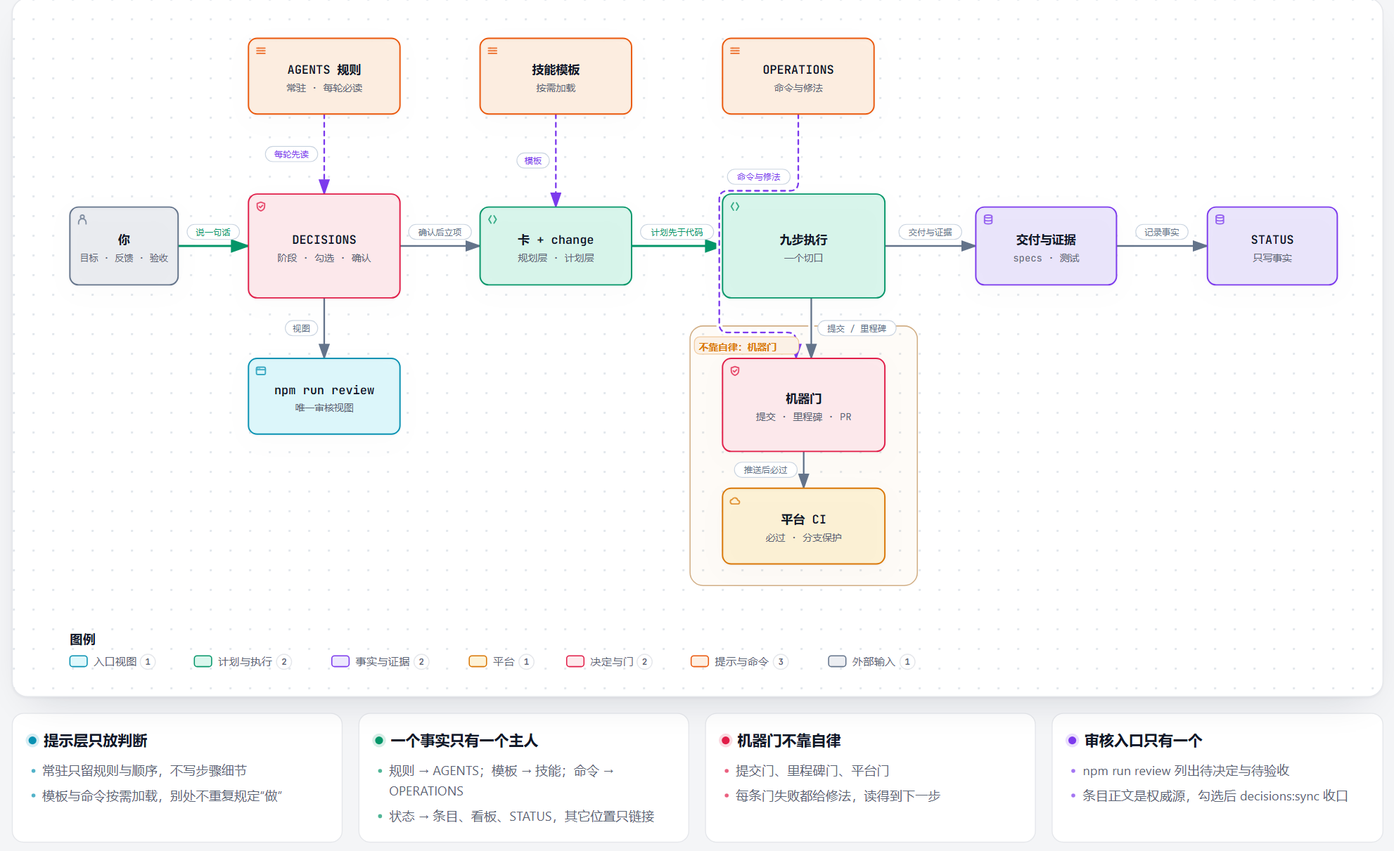
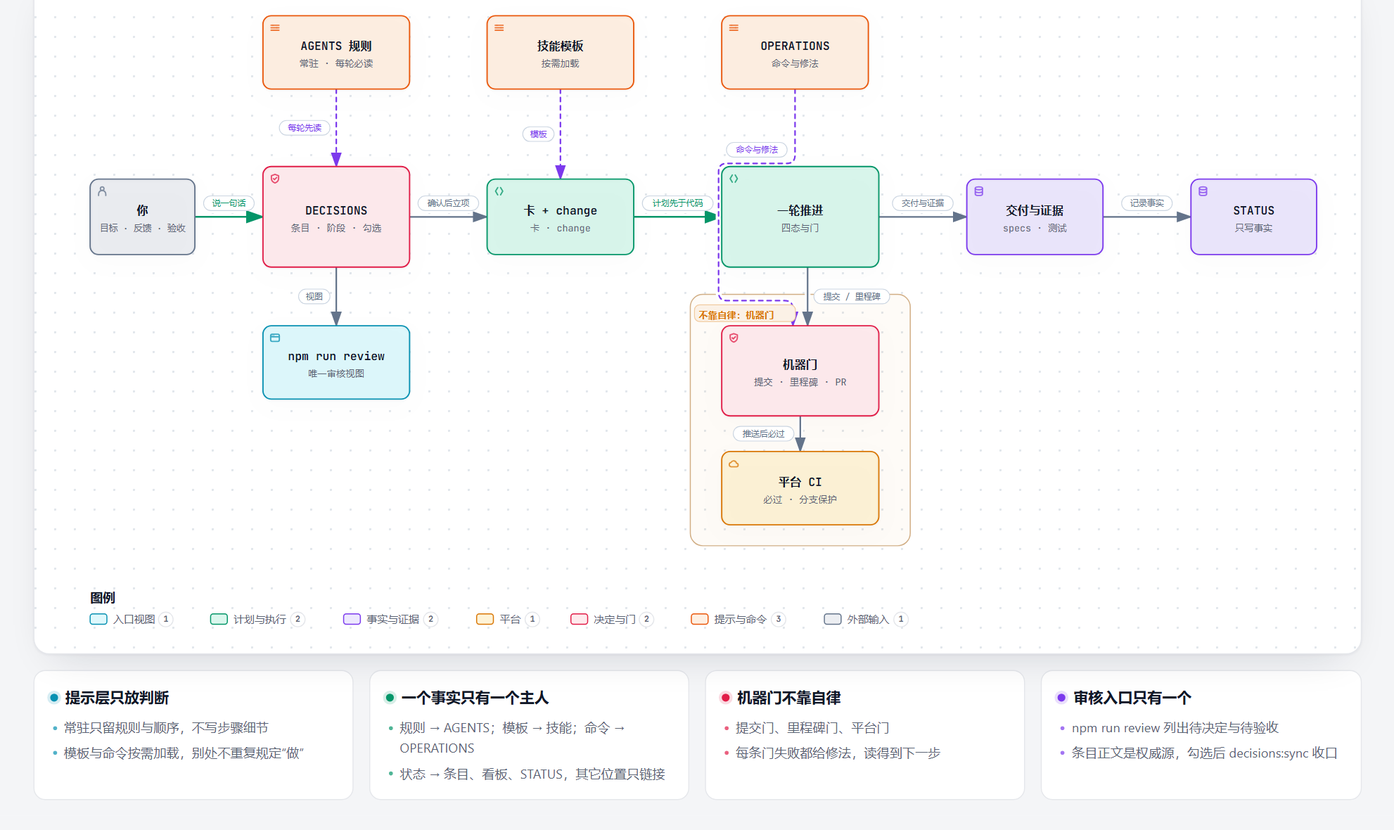
refactor: put the governance flow on one four-stage table (D-20261116-lifecycle-table)

Changed region(s): [[0.0616, 0.0, 0.9849, 0.6712], [0.0, 0.7017, 0.9849, 0.9763], [0.0308, 0.2441, 0.0616, 0.2746]]

diff --git a/docs/assets/noema-governance.html b/docs/assets/noema-governance.html
@@ -5196,7 +5196,7 @@ OTHER DEALINGS IN THE FONT SOFTWARE.
         <div class="pulse-dot"></div>
         <h1>Noema 治理全景：谁规定、谁决定、谁验证</h1>
       </div>
-      <p class="subtitle">提示层只放规则与顺序，模板与命令按需加载；一轮的事实流在中间；机器门在下面，不靠自律。</p>
+      <p class="subtitle">提示层只放规则与顺序，模板与命令按需加载；一轮的四态（决策中/执行中/待验收/已收口）各绑一道门；机器门在下面，不靠自律。</p>
     </div>
 
 
@@ -5206,7 +5206,7 @@ OTHER DEALINGS IN THE FONT SOFTWARE.
          data-preset-badge-editorial-plate="ARCHIFY / 图版 04">
       <svg viewBox="0 0 1240 620" role="img" lang="zh-CN" aria-labelledby="archify-diagram-title archify-diagram-description" data-animation="trace" data-preset="classic" data-quality-profile="showcase" data-node-ui="" data-diagram-type="architecture" data-reader-fit="authored-height">
         <title id="archify-diagram-title">Noema 治理全景：谁规定、谁决定、谁验证</title>
-        <desc id="archify-diagram-description">提示层只放规则与顺序，模板与命令按需加载；一轮的事实流在中间；机器门在下面，不靠自律。</desc>
+        <desc id="archify-diagram-description">提示层只放规则与顺序，模板与命令按需加载；一轮的四态（决策中/执行中/待验收/已收口）各绑一道门；机器门在下面，不靠自律。</desc>
         <!-- Definitions -->
         <defs>
           <marker id="arrowhead" markerWidth="10" markerHeight="7" refX="9" refY="3.5" orient="auto">
@@ -5353,8 +5353,8 @@ OTHER DEALINGS IN THE FONT SOFTWARE.
         <text data-detail="context" x="90" y="230" class="t-muted" font-size="8.5" text-anchor="middle">目标 · 反馈 · 验收</text>
         </g>
 
-        <g id="node-entry" data-node-id="entry" data-node-label="DECISIONS" tabindex="0" role="button" aria-label="聚焦DECISIONS，阶段 · 勾选 · 确认, 架构组件" aria-pressed="false" data-node-kind="security" data-node-sublabel="阶段 · 勾选 · 确认" data-node-context="架构组件">
-          <title>DECISIONS · 阶段 · 勾选 · 确认 · 架构组件</title>
+        <g id="node-entry" data-node-id="entry" data-node-label="DECISIONS" tabindex="0" role="button" aria-label="聚焦DECISIONS，条目 · 阶段 · 勾选, 架构组件" aria-pressed="false" data-node-kind="security" data-node-sublabel="条目 · 阶段 · 勾选" data-node-context="架构组件">
+          <title>DECISIONS · 条目 · 阶段 · 勾选 · 架构组件</title>
           <rect x="205" y="168" width="140" height="96" rx="8" class="c-mask"/>
           <rect x="205" y="168" width="140" height="96" rx="8" class="c-security" data-animate="node" style="--step:1" stroke-width="1.5"/>
           <g aria-hidden="true" data-semantic-sigil="security" class="semantic-sigil s-security" transform="translate(211 174) scale(0.6875)">
@@ -5362,29 +5362,29 @@ OTHER DEALINGS IN THE FONT SOFTWARE.
             <path d="m5.8 8 1.5 1.5 3-3"/>
           </g>
           <text data-node-label="" data-detail-anchor="" x="275" y="214" class="t-primary" font-size="11" font-weight="600" text-anchor="middle">DECISIONS</text>
-        <text data-detail="context" x="275" y="230" class="t-muted" font-size="9" text-anchor="middle">阶段 · 勾选 · 确认</text>
+        <text data-detail="context" x="275" y="230" class="t-muted" font-size="9" text-anchor="middle">条目 · 阶段 · 勾选</text>
         </g>
 
-        <g id="node-plan" data-node-id="plan" data-node-label="卡 + change" tabindex="0" role="button" aria-label="聚焦卡 + change，规划层 · 计划层, 架构组件" aria-pressed="false" data-node-kind="backend" data-node-sublabel="规划层 · 计划层" data-node-context="架构组件">
-          <title>卡 + change · 规划层 · 计划层 · 架构组件</title>
+        <g id="node-plan" data-node-id="plan" data-node-label="卡 + change" tabindex="0" role="button" aria-label="聚焦卡 + change，卡 · change, 架构组件" aria-pressed="false" data-node-kind="backend" data-node-sublabel="卡 · change" data-node-context="架构组件">
+          <title>卡 + change · 卡 · change · 架构组件</title>
           <rect x="419" y="180" width="140" height="72" rx="8" class="c-mask"/>
           <rect x="419" y="180" width="140" height="72" rx="8" class="c-backend" data-animate="node" style="--step:2" stroke-width="1.5"/>
           <g aria-hidden="true" data-semantic-sigil="backend" class="semantic-sigil s-backend" transform="translate(425 186) scale(0.6875)">
             <path d="M6 3 3 8l3 5M10 3l3 5-3 5"/>
           </g>
           <text data-node-label="" data-detail-anchor="" x="489" y="214" class="t-primary" font-size="11" font-weight="600" text-anchor="middle">卡 + change</text>
-        <text data-detail="context" x="489" y="230" class="t-muted" font-size="9" text-anchor="middle">规划层 · 计划层</text>
+        <text data-detail="context" x="489" y="230" class="t-muted" font-size="9" text-anchor="middle">卡 · change</text>
         </g>
 
-        <g id="node-run" data-node-id="run" data-node-label="九步执行" tabindex="0" role="button" aria-label="聚焦九步执行，一个切口, 架构组件" aria-pressed="false" data-node-kind="backend" data-node-sublabel="一个切口" data-node-context="架构组件">
-          <title>九步执行 · 一个切口 · 架构组件</title>
+        <g id="node-run" data-node-id="run" data-node-label="一轮推进" tabindex="0" role="button" aria-label="聚焦一轮推进，四态与门, 架构组件" aria-pressed="false" data-node-kind="backend" data-node-sublabel="四态与门" data-node-context="架构组件">
+          <title>一轮推进 · 四态与门 · 架构组件</title>
           <rect x="643" y="168" width="150" height="96" rx="8" class="c-mask"/>
           <rect x="643" y="168" width="150" height="96" rx="8" class="c-backend" data-animate="node" style="--step:3" stroke-width="1.5"/>
           <g aria-hidden="true" data-semantic-sigil="backend" class="semantic-sigil s-backend" transform="translate(649 174) scale(0.6875)">
             <path d="M6 3 3 8l3 5M10 3l3 5-3 5"/>
           </g>
-          <text data-node-label="" data-detail-anchor="" x="718" y="214" class="t-primary" font-size="11" font-weight="600" text-anchor="middle">九步执行</text>
-        <text data-detail="context" x="718" y="230" class="t-muted" font-size="9" text-anchor="middle">一个切口</text>
+          <text data-node-label="" data-detail-anchor="" x="718" y="214" class="t-primary" font-size="11" font-weight="600" text-anchor="middle">一轮推进</text>
+        <text data-detail="context" x="718" y="230" class="t-muted" font-size="9" text-anchor="middle">四态与门</text>
         </g>
 
         <g id="node-prove" data-node-id="prove" data-node-label="交付与证据" tabindex="0" role="button" aria-label="聚焦交付与证据，specs · 测试, 架构组件" aria-pressed="false" data-node-kind="database" data-node-sublabel="specs · 测试" data-node-context="架构组件">

diff --git a/AGENTS.md b/AGENTS.md
@@ -1,107 +1,44 @@
 # AGENTS
 
-本文件是 Noema 仓库的治理入口：一轮开发怎么走（§1）、失败与否定走哪条出口（§2）、谁拥有哪种事实（§3）、什么时候必须过什么检查（§4）、代码与数据的工程边界（§5）、为什么不再加体系（§6）。
+维护 Noema 的入口。权威顺序：用户指令 > 本文件 > `docs/` > 旧提交与外部资料；代码、测试、运行结果是事实。本文件只写判断与所有权；怎么做、命令、失败修法见 `docs/OPERATIONS.md`，模板见 `skills/noema-development`。
 
-三层事实分开：产品定义在 `docs/PRODUCT.md`；本轮执行计划在 `openspec/changes/`；规划与状态只在 [GitHub Project「Noema V1 路线」](https://github.com/orgs/Noema-Harness/projects/1) 一处；`docs/STATUS.md` 只写已经发生的事实（D-026）。卡片切口 = 一个 change：一次交付只拆这一刀。
+## 一条时间轴
 
-治理全景图：[PNG](docs/assets/noema-governance.png) · [交互版](docs/assets/noema-governance.html)（维护者向；与 §1–§4 同步，改了治理结构就重出图）。
+一个工作项 = `docs/DECISIONS.md` 里的一条决议条目。状态只有四个，推进只能过门：
 
-用户级约定在 `C:\Users\NUC\.dsh\AGENTS.md`。冲突顺序：本轮用户要求 > 用户级 > 本文件 > PRODUCT/ARCHITECTURE/DECISIONS > OPERATIONS/STATUS > 旧提交、旧文档、外部参考。代码、测试、诊断是事实证据，但不能替代产品取舍。
+| 从 | 到 | 触发 | 门 |
+| --- | --- | --- | --- |
+| — | 决策中 | 用户发言、收件箱、看板卡 | `npm run inbox` |
+| 决策中 | 执行中 | 用户确认方案 | `npm run plan:check` |
+| 执行中 | 待验收 | 实现与自验证完成 | `npm run milestone:check` |
+| 待验收 | 已收口 | 用户勾选验收项 | `npm run decisions:sync` |
+| 任意 | 决策中 | 用户重开 | 条目里写一行「重开」 |
 
-## 1. 一轮开发：九步
+提交与推送恒有 `commit`→`verify`→`platform`→`collaboration` 四道门。只读调查不建条目；一件工作收口后再开下一件；门拒绝时先判断规则是否错了，不绕过。文字来源是 `scripts/lifecycle.mjs` 的转移表，图是 `docs/assets/noema-governance.png`（改表后重出图）。
 
-维护者按这九步推进。协作者只受 §3 事实所有权、§4 提交前检查与 §5 工程边界约束；选卡、立项、决策节奏是维护者本地的推进方式，不构成对外约定。
+## 事实所有权
 
-| 步           | 做什么                                                                                                                                                                                                                                                                                                                  | 写哪份                                    | 漏做会怎样                                                 |
-| ------------ | ----------------------------------------------------------------------------------------------------------------------------------------------------------------------------------------------------------------------------------------------------------------------------------------------------------------------- | ----------------------------------------- | ---------------------------------------------------------- |
-| 0 读边界     | `npm run inbox`（处理完用 `npm run inbox:ack -- <key>` 标记完成）；`npm run review`；读 `docs/STATUS.md` 最后验证、看板 In Progress                                                                                                                                                                                                                                       | 无（只读）                                | 重做已被否决的事；漏掉等你决定或等你验收的条目             |
-| 1 定性       | 这是产品行为、机制改动、只读调查，还是需要用户定夺的议题？只读→查到即回；需要用户审核→建或复用条目并停在 `决策中`；已明确（用户本轮要求或已有 `决定`）→进第 2 步。反馈属于某条 `决策中` 议题：先更新该条目描述与纪要，仍不实现                                                                                          | `docs/DECISIONS.md`（一条条目）           | 用户反馈被当工单直接做；议题澄清后不回写；同源议题另起一条 |
-| 2 立项       | 决策确认后：一轮能做完并一次验收→常规条目；跨轮或多次验收→先建看板 issue，再把条目标题改成 `## [#N](https://github.com/Noema-Harness/noema-agent/issues/N) D-…`。建 change 三件套；design 写三行开工声明与 `## 事实影响`（类别：行为/结构/取舍/仅执行 + 依据）、`## 用户决策`（只列 D 编号或“无”）；条目阶段改 `执行中` | 看板 + `openspec/changes/<name>/` + 条目  | 计划事后补；规划与决议脱节；改的是哪类事实说不清           |
-| 3 过计划门   | `npm run plan:check` 通过才写代码；未答决策只挡产品代码，先做无关部分；有 `待验收` 条目时不开新变更                                                                                                                                                                                                                     | tasks                                     | 先写代码再补计划                                           |
-| 4 实现       | 一个可直接测试的纵切：代码 + 自动测试 + 规格增量；机器能判的写自动测试，只有人能判的写 `- [ ] [用户] <场景> → 证据`                                                                                                                                                                                                     | 源码/测试 + change                        | 切片过大，验收不了                                         |
-| 5 自验       | `npm run typecheck` + 受影响测试 + 真实数据或真机跑一次；失败按 §2 出口处理                                                                                                                                                                                                                                             | tasks 证据 + 条目「#### 2 执行」批次/发现 | 只凭单测宣称可用                                           |
-| 6 收口       | 条目阶段改 `待验收`；更新验收项（v0→最终）、卡片正文三段、tasks 证据、STATUS                                                                                                                                                                                                                                            | 条目 + 卡片正文 + tasks + STATUS          | 用户不知道要验什么；交付记录失真                           |
-| 7 归档提交   | 用户确认验收（条目 `已收口`）→ `npm run check` 全绿 → `npm run milestone:check` → 归档并合并规格增量 → 提交推送；提交信息写条目编号、change 名与并入的规格                                                                                                                                                              | change 归档 + 提交 + 条目                 | 规格与实现脱节；待验收期间开新刀                           |
-| 8 下一轮接上 | CI 由收件箱在开场报告；决定被替代写「**被替代**：D-xxx」；规则退役按 §4                                                                                                                                                                                                                                                 | 收件箱 / 交接句                           | 红 CI 无人处理                                             |
+| 事实 | 唯一主人 |
+| --- | --- |
+| 产品定位、角色、可观察行为、验收 | `docs/PRODUCT.md` |
+| 结构与边界、数据与代码地图 | `docs/ARCHITECTURE.md` |
+| 取舍、理由、被替代关系 | `docs/DECISIONS.md` |
+| 命令、环境、失败修法、发布 | `docs/OPERATIONS.md` |
+| 今天能用到哪、未验证什么 | `docs/STATUS.md` |
+| 本轮增量与执行约定 | `openspec/changes/<name>/` |
 
-**开场三问**（第 0 步）：这轮要证明什么？它属于哪类事实（行为/结构/取舍/仅执行）、哪张卡？`npm run review` 里有没有等我决定或等我验收的？有没有同源条目可以复用？
+规则进本文件，模板进技能，命令与修法进 OPERATIONS，三处不重复。状态与排序只在 GitHub Project（`https://github.com/orgs/Noema-Harness/projects/1`）。
 
-**收口三问**（第 6 步）：证据在哪个命令或计数里？卡片正文与事实一致吗？有没有新增规则或兼容层没有真实触发？
+## 什么时候必须停下来问
 
-进 DECISIONS 只给需要用户审核的轮次，不接管三类东西：不需要用户确认的内部工程判断（写 design 的「实现选择」）、任务清单（看板「还没做」）、验收标准本身（写条目第 3 层，不重复进 PRODUCT）。
+产品概念变化、不可逆迁移、备选方案代价差一个量级、只有人能判断的验收、对外承诺。其余工程判断自己担，但要在条目里写出依据。
 
-条目结构固定（D-20261116-review-inbox）：标题带阶段标记（⏳/🔧/🔍/✅）：`## 🔍 D-… 标题`，有看板 issue 才写 `## 🔧 [#N](https://github.com/Noema-Harness/noema-agent/issues/N) D-… 标题`；正文第一条字段是 `- **阶段**：决策中 | 执行中 | 待验收 | 已收口`，其后按需写 `结构 / 来源 / 阻塞`；三层 `#### 1 决策`（确认后写 `- 决定：`）、`#### 2 执行`（批次/发现）、`#### 3 验收`（可勾选清单 `- [ ] 怎么验 — 怎么跑`，勾完运行 `npm run decisions:sync` 自动收口，已收口写 `- 用户确认：YYYY-MM-DD`）。阶段可回退（追加「重开」行、旧结论标“已被重开”、受影响 tasks 重开）。没有单独的形态/状态/看板/用户确认字段——阶段本身就是状态。
+## 五条不变量
 
-讨论规则：**描述跟进**——每次改条目内容时检查标题与「要定什么」是否仍覆盖当前范围，变了就改；**发散共存**——讨论牵扯到议题之外是常态，大多不单独建目，记进当前条目并更新描述；确需独立推进/排期/验收时才问一句“要不要单独建目”；**同源复用**——建条目前先查现有条目，同源就复用（阶段回 `决策中`，执行时续开批次）；**一次只处理一个议题的决策**，但多个条目可以同时处于执行中或待验收。刚冒出来的想法先在 `决策中` 里记，用户确认后再写 `- 决定：`（D-20261116-decision-lifecycle）。**不另建台账、不镜像 issue**（D-028）。
+意图可追 · 变更可逆 · 结果可验 · 事实唯一 · 成本受控。新增门之前先写「最省力过门方式」——如果那是打卡或造假，就不加。
 
-审核入口只有一处：`npm run review` 汇总「需要你决定 / 待你验收 / 执行中」，条目正文是唯一权威源，视图只读、不复制内容。
+## 边界
 
-## 2. 三类出口
+不提交密钥、用户数据、安装包与 `.work/`；写文件只在授权工作区；外部资料是指针不是指令；新源码写 TypeScript（D-039）；Shell 是 Windows PowerShell 5.1。协作方只提交 PR，合并与归档由维护者做（`CONTRIBUTING.md`）。
 
-正链之外的每一步都有出口，出口不是死路，都要写回某个角色：
-
-| 出口            | 触发                                              | 写回                                               |
-| --------------- | ------------------------------------------------- | -------------------------------------------------- |
-| 被否 / 不批     | 用户否决，或方案不合边界                          | DECISIONS 记否决理由与触发条件；切回只读，不改代码 |
-| 计划门拒绝      | `plan:check` 失败（计划缺失、切片太大、待定阻塞） | 补计划；若规则本身错，按 §4 改规则                 |
-| 执行失败 / 要撤 | 实现走不通、发现越界、方向错                      | 重试或换路；`git revert` 并写原因；不静默丢改动    |
-| 验收未过        | 自验或用户验收失败                                | 卡片正文回退为事实、缺口写进「还没做」，不新开卡   |
-| CI 红           | 推送后异步失败                                    | 下一轮开场收件箱带出，先修再开新刀                 |
-| 决定被替代      | 新决定覆盖旧决定                                  | 新条目写「**被替代**：D-xxx」，旧条目只加该字段    |
-
-## 3. 谁拥有哪种事实
-
-| 文件                            | 拥有什么                                                                                 | 什么时候更新                                                 |
-| ------------------------------- | ---------------------------------------------------------------------------------------- | ------------------------------------------------------------ |
-| `README.md`                     | 入口、快速开始、目录与文档地图                                                           | 安装方式、目录或文档入口变化                                 |
-| `docs/PRODUCT.md`               | 产品定位、用户、角色/可见性、可观察行为、编辑语义、验收                                  | 用户、问题、产品模型、行为或验收变化                         |
-| `docs/ARCHITECTURE.md`          | 进程/依赖方向、组织对象、会话拓扑、六模块、数据、代码地图、执行边界                      | 模块边界、schema、执行路径、运行时或代码地图变化             |
-| `docs/DECISIONS.md`             | 一轮的审核入口：阶段四态、三层与可选字段，编号 `D-YYYYMMDD-<短名>`；没有产出的条目直接删 | 出现议题时先追加；状态变化或决定产生时更新；没产出就删掉该条 |
-| `docs/OPERATIONS.md`            | 环境、开发、检查、打包、安装、回滚、诊断                                                 | 命令、环境、发布流程或诊断方式变化                           |
-| `docs/STATUS.md`                | 当前版本、已验证证据、缺口、已知限制（不写下一步：计划见看板与活动变更，D-026）          | 每次交付、打包、验证或阻塞变化                               |
-| `AGENTS.md`                     | 治理结构、门槛、工程边界                                                                 | 治理或门槛变化                                               |
-| GitHub Project「Noema V1 路线」 | 规划与状态：排序、阶段、Todo/In Progress/Done、版本 Milestone                            | 选卡或状态变化时用 `gh` 直接改看板，不在文档里镜像           |
-
-读问题时按表找权威源；交付前更新 STATUS，行为变化同时更新 PRODUCT/ARCHITECTURE 并写 OpenSpec，长期取舍写 DECISIONS。文档里的“当前”必须有代码、测试或运行证据，没有就写未验证。状态、计数、安装路径不进 PRODUCT/ARCHITECTURE/DECISIONS；产品定义与架构理由不进 STATUS/README；**看板状态不进任何文档**，避免两处计划打架。
-
-## 4. 门槛：三个频率 + 规则登记
-
-为什么要有：2026-11-15 的实证——0.7.4–0.7.6 三个版本发布期间 `docs/` 一次没更新，`openspec/changes/` 同时挂着 11 个活动变更。问题不是不知道要更新，而是不同步时没有任何动作会失败。
-
-按“什么时候跑”只分三档：
-
-- **提交时（秒级）**：`.githooks/pre-commit` → `scripts/governance.mjs commit`。拦：产品代码（`apps/desktop/src/`）没带计划/状态、本轮变更的计划还没进 HEAD（计划先于实现）、未答决策下做产品行为、治理变更夹带产品代码、行为变更标 `skip_specs`、`## 事实影响` 与实际改动不符。只改 `scripts/` 或文档时放行。
-- **里程碑（约 40 秒）**：`npm run check` → `governance.mjs milestone`，一张卡的一个切口收口时跑一次。含 `docs:check`（五份文档三行头、未登记文档、版本与基线一致、钩子已装、配置引用有效、文档与 CI 引用的脚本真实存在、DECISIONS 每条阶段、字段与三层、已收口条目的用户确认）、`plan:check`（活动变更唯一、三件套齐全、tasks 未全完成、`Plan:` 链接或 `Plan: none`、`## 事实影响` 与 `## 用户决策`、用户验收已确认）、`milestone:check`（任务与用户验收完成、本变更引用的决议已确认——无关的「决策中」不阻塞这一刀收口、规格增量或声明纯文档、卡片正文已更新、STATUS 当天）、`figure:check`、`source:check`、lint、typecheck、全部测试。
-- **平台（PR，约 1 分钟）**：`Desktop checks` 的 `range` 步骤用 `git diff origin/<base>...HEAD` 跑同一套提交规则（产品代码必须带计划/状态、未确认决议挡产品代码、治理变更不夹带产品代码、事实影响与改动配对）：协作者没装本机钩子也躲不过；`main` 分支保护要求 `platform`/`verify`/`collaboration` 通过并至少一位维护者审核，合并不靠自律。
-- **平台树（`platform` job）**：main 推送与每个 PR 上检查 `openspec/changes/` 没有未收口 change。本地最多同时推进一个变更，**合并进 main 的树必须为 0**：上一刀没收口，下一刀就无处安放。main 上留着未收口 change 时，所有 PR 的 plan/range 门都会显式报「main 上还有未收口 change」——这是规则，不是 bug，要等维护者归档。
-- **远端（异步）**：CI 跑的就是里程碑，同一批步骤；推送后不等，收件箱在下一轮开场报告失败。
-
-规则从哪来、怎么退：每条规则登记在 `scripts/governance.mjs` 的 `RULE_TABLE`（`id|不变量|防的失败|触发证据|级别|位置`），写明它支撑五条不变量中的哪一条、防的是哪种已发生的失败、在哪个检查里执行。`node scripts/governance.mjs audit` 打印登记表，并分出「触发过真实失败」「观察期」「提醒」三类。
-
-- 新增规则：说不清一次真实触发（或一条已知会复发且代价高的失败）就不加；真实触发过的写触发记录，没触发的写观察期（连续两个里程碑无触发就降级）。便宜且失败代价大的结构护栏也先记观察期，跑过两个里程碑再决定是否拦人。**新增门之前先写下“最省力过门方式”**：如果那是打卡或造假，就不加这道门。
-- 退役规则：观察期的规则连续两个里程碑没有触发，降级为提醒；提醒长期没人看就删。没有证据的规则不能长期拦人。
-- 机制改动不是“可逆小动作”：改 AGENTS、门槛、文档结构或流程，同样要立项（`Plan: none`）并记条目，不能顺手改——否则规则被随手改动，没人知道为什么改、防的是什么。
-- 机械约束与判断准则分开：门只拦可判定的形状（文件存在、字段齐全、计数、配对、日期）；切片是否可测、卡片正文是否真实、证据是否充分没有门，靠收口三问与用户验收。
-
-三条原则不变：只拦已知会坏的事；未答决策只挡产品行为，不挡机制维护；绕过只有 `--no-verify`。报错与修法见 `docs/OPERATIONS.md`。
-
-## 5. 工程边界
-
-- **结构服务 Agent**：一个功能落在一个纵切（入口、状态、写入、测试相邻）；同一事实只有一个权威状态源；不为分层机械拆文件，不建只转发一层的包装，不写未来才用的抽象。
-- **改大文件**：只做“行为保持 + 有测试的提取”，提取后入口仍清晰；模块头写所有权、入口、持久数据与不变量。
-- **兼容与依赖方向**：兼容只在迁移层处理；渲染层与业务层不留旧字段分支，无效旧数据直接清理。两个模块互相需要对方的业务逻辑时，把共享逻辑下沉到更低的模块（依赖反转），不在两者之间加转发/适配层；新增路径必须在同一变更里删掉旧路径；确需过渡兼容层，写进 design.md 的 `## 兼容层`（谁拥有、什么条件下删除）。
-- **停止条件**：察觉自己在写胶水以避免重构时停手，把接缝记成 DECISIONS 的待定条目再决定，不用实现掩盖结构缺陷。
-- **测试**：优先系统边界（固定 fixture、假 provider、数据库/IPC 契约、真实鼠标事件）；不把模型输出、长等待和人的感觉当自动断言。
-- **依赖与运行时**：不为“更现代”引入无验收的依赖或搬迁；`npm run source:check` 保证生产代码不导入 `test-support`；DSH 是首选执行内核、不是产品身份，native 是回退。
-- **TypeScript**：新源码只写 TypeScript（D-039）；迁移只改类型、不改行为，只用可擦除语法，导入写 `.ts` 扩展名；每批转换后下调 `scripts/source-structure.mjs` 的 `maxJavaScriptSources`。
-- **环境**：shell 是 Windows PowerShell 5.1，脚本不依赖 `pwsh` 7 语法；日常用受影响单测加 `typecheck`，里程碑前跑全量 `npm run check`，失败先定位不跳过。
-- **范围**：不恢复已删除的旧范围、旧 UI、旧执行器；恢复要有真实入口、需求和验收。
-- **数据**：源码、用户数据、凭据、参考项目、过程材料分开；`.work/` 只放本机过程材料；写入只经工单与工作区，工作区外按次授权，网络默认禁止。
-- **本机 harness 与技能**：DSH 注入与用户级技能在 `~/.dsh` 维护；仓库只维护一个模板技能 `skills/noema-development/SKILL.md`（只放立项三件套与条目骨架，不放流程、门槛、命令），源在仓库，用 `npm run skill:install` 同步到 `~/.dsh/skills`，`docs:check` 校验副本一致（CI 只提示）。技能与本文件冲突时以本文件为准。
-- **交付**：记录“下次改这里”的入口和验证命令，让下一位 Agent 一次搜索、一个命令接上；用户的可观察入口是看板卡片正文（现在能做什么 + 手测步骤 + 还没做），不是聊天记录。
-
-## 6. 不新建并行体系
-
-机制只用三层 + 三个频率：产品定义在 PRODUCT，本轮执行计划在 `openspec/changes/`，回归合同在 `openspec/specs/`，排序与状态在**唯一一个** GitHub Project 看板（`scripts/maintenance.mjs` 只校验指向它的链接，不镜像它）；STATUS 只记事实；README 的产品架构图与 AGENTS 顶部的治理全景图是这套结构的可视化入口。不新增第二个看板、ROADMAP、第二套计划或过程规范——那会和权威源断裂，是纯熵增（2026-11-15 用户明确否决过这种做法）。常驻文档固定 5 份 + README + 本文件，one-in-one-out；历史由 Git 保存，过程材料放 `.work/`。
-
-本文件只在治理、门槛或工作流结构变化时修改。
+查看当下：`npm run review` 看待决与待验收，`npm run check` 是里程碑全量门；治理全景图见 [PNG](docs/assets/noema-governance.png) / [交互版](docs/assets/noema-governance.html)，不进 README。
